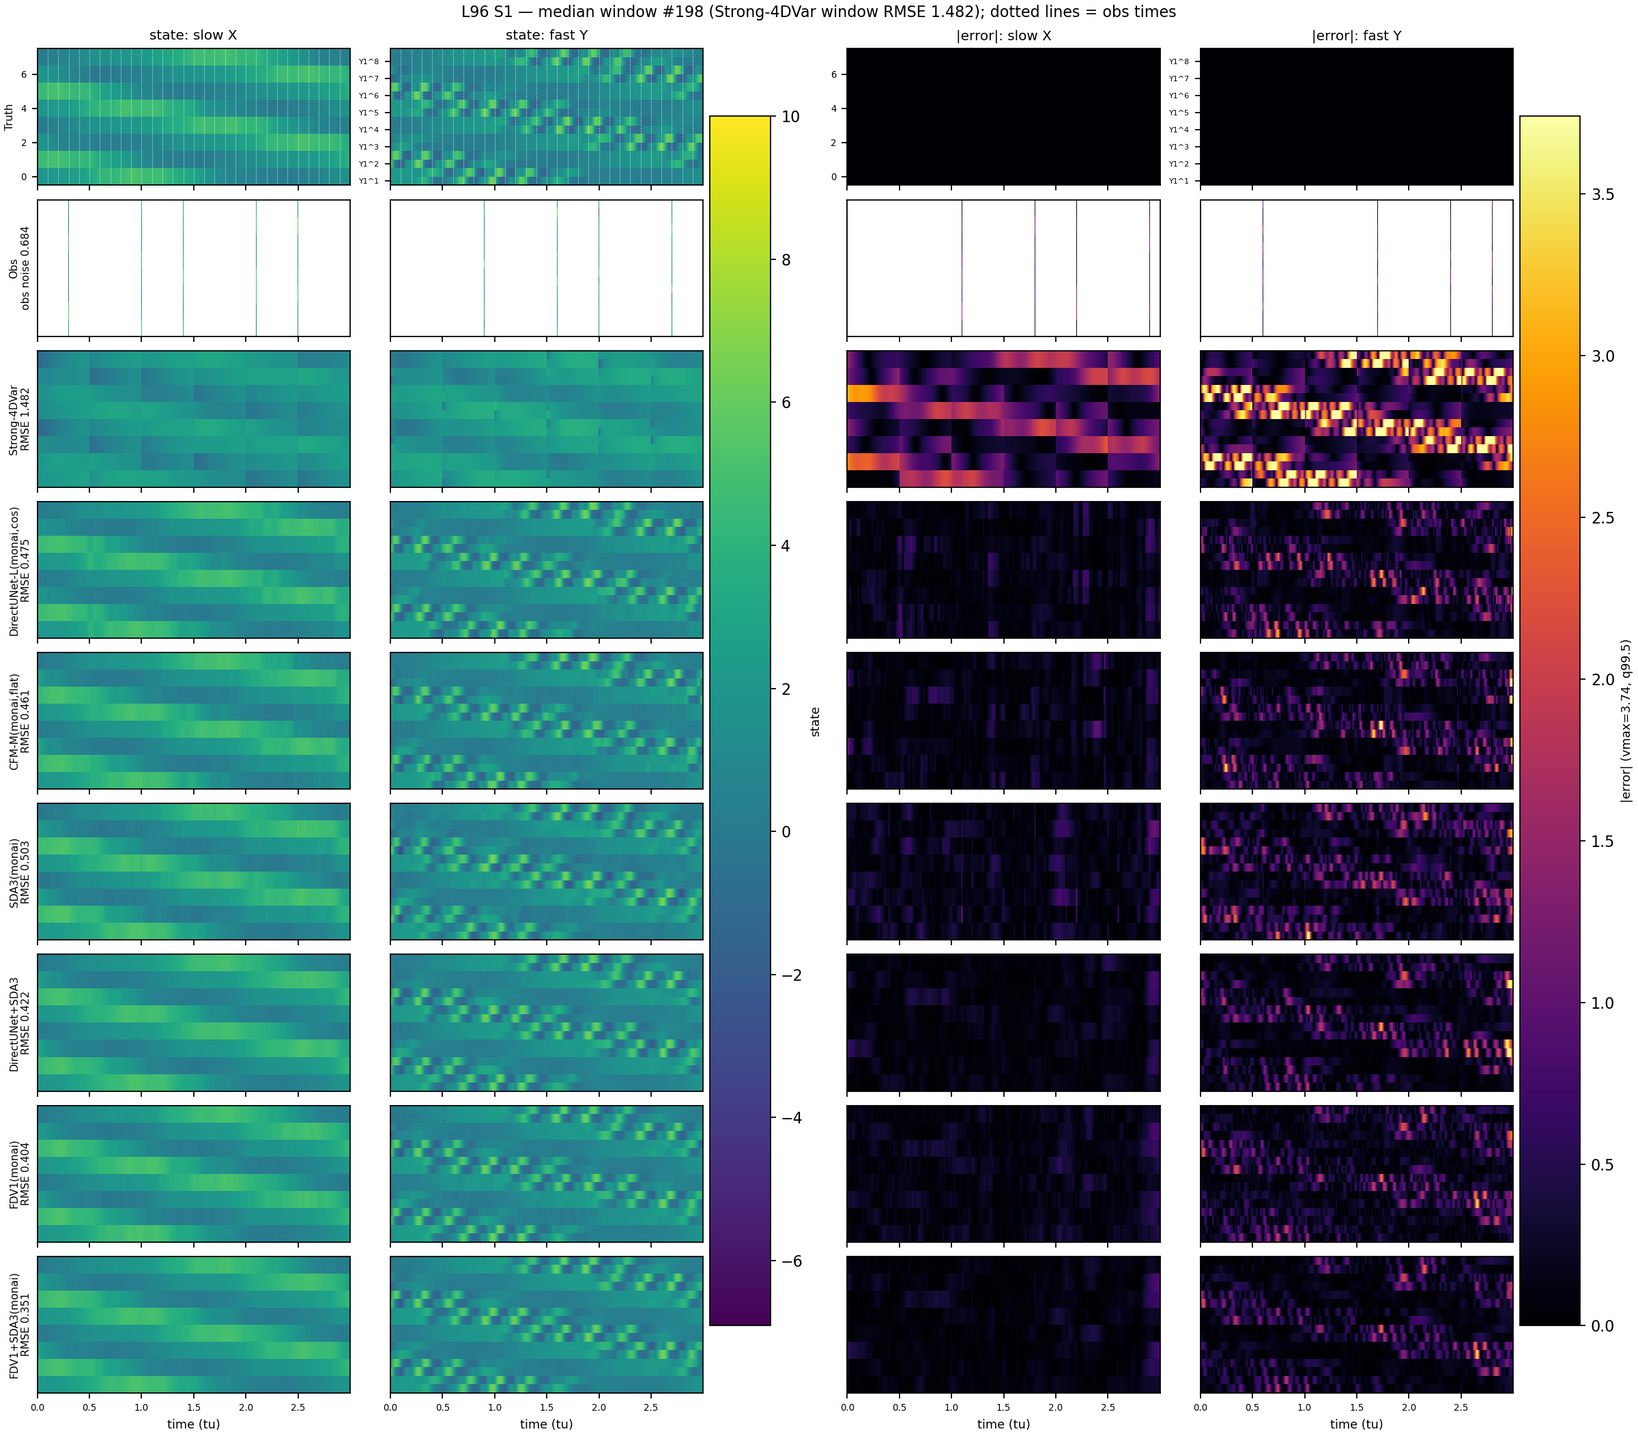
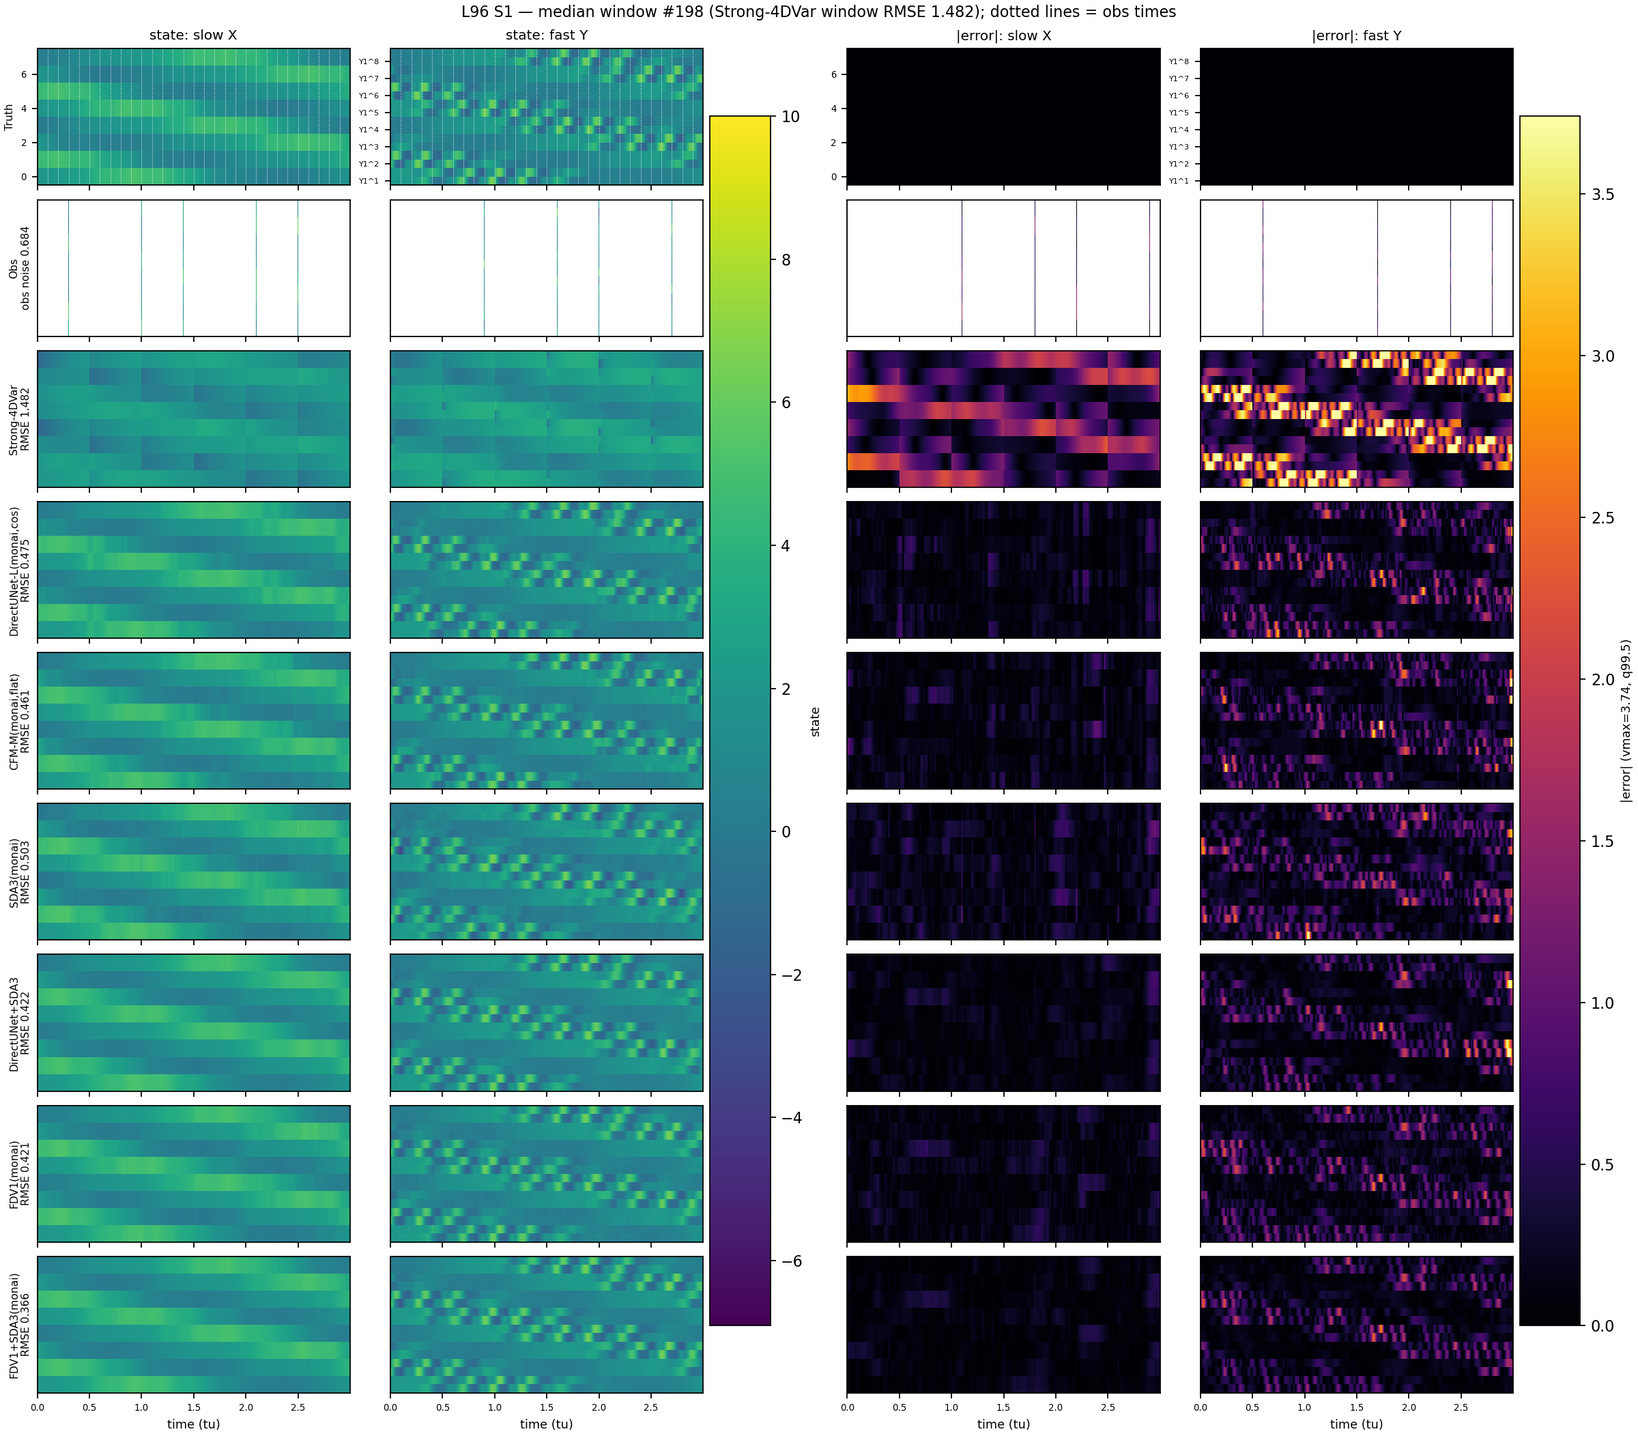
fix(l96): regenerate FDV1(monai) benchmark with corrected checkpoint eval + add FDV2(monai) unavailable row
FDV1(monai)/FDV1+SDA3(monai) were re-evaluated with the correct --n-outer 10
flag after a retrain job's checkpoint eval used the CLI default of 1
(silently starving the 10-step unrolled solver). Regenerate the consolidated
benchmark report and its Hovmoller figures from the corrected estimates via
the existing generator script, and record FDV2(monai) (grad+state, fixed
prior_weight) as unavailable -- that run diverged to NaN at epoch 190/400
and was killed, root-caused to an unclamped gradient-channel normalization
in FourDVarNetSolver.

Changed region(s): [[0.5938, 0.7723, 0.9375, 0.9886], [0.5312, 0.7723, 0.5938, 0.865], [0.6875, 0.9268, 0.75, 0.9577]]

diff --git a/reports/l96/generate_l96_consolidated_report.py b/reports/l96/generate_l96_consolidated_report.py
@@ -86,6 +86,7 @@ NEURAL_EXP_DIRS = [
     "SDA2_monai_cond_mixed_l96_norm/directunet_hybrid",
     "SDA3_monai_cond_noisy_l96_norm/directunet_hybrid",
     "FDV1_unrolled_monai_unet_l96",
+    "FDV2_grad_state_monai_l96_fixedw",
     "FDV1_SDA3_monai_hybrid",
     "FDV1_SDA1_monai_hybrid",
     "FDV1_SDA2_monai_hybrid",
@@ -110,6 +111,7 @@ MONAI_ROWS = [
     "SDA2_monai_cond_mixed_l96_norm/directunet_hybrid",
     "SDA3_monai_cond_noisy_l96_norm/directunet_hybrid",
     "FDV1_unrolled_monai_unet_l96",
+    "FDV2_grad_state_monai_l96_fixedw",
     "FDV1_SDA3_monai_hybrid",
     "FDV1_SDA1_monai_hybrid",
     "FDV1_SDA2_monai_hybrid",
@@ -364,6 +366,23 @@ SCHEME_DESCRIPTIONS: list[tuple[str, str, str]] = [
       "`eval_neural_l96.py`'s `--n-outer` CLI default (1), which is correct for tau0-only CFM but "
       "silently starves this solver's zero-init refinement of the N_outer=10 iterations it needs; "
       "fixed by passing `--n-outer 10` explicitly, recovering a sane, in fact excellent, result.")),
+    ("FDV2_grad_state_monai_l96_fixedw", "Neural (4DVarNet-style unrolled solver, gradient-conditioned, monai backbone)",
+     ("MonaiUNet1D backbone swapped into FDV2's `update_input='grad+state'` solver (each of N_outer=10 "
+      "iterations builds a real variational cost `prior_cost(state) + obs_weight*obs_cost(state, obs)` "
+      "and feeds the UNet its true `torch.autograd.grad(..., create_graph=True)`), with a **fixed** "
+      "(non-trainable) `prior_weight=1.0` held for all 400 epochs at a constant `lr=0.001` -- the "
+      "\"fixedw\" variant. **Diverged to NaN at epoch 190/400** (val_loss NaN first, train_loss still "
+      "normal mid-epoch -- a sudden collapse, not gradual drift); root-caused to "
+      "`models/fourdvarnet.py::_normalize_channels`, which only floors the `grad+state` cost-gradient "
+      "channel's RMS norm (`clamp_min(1e-8)`) with no matching ceiling, unlike the state branch `x` "
+      "(clamped every iteration via `clip_range=50.0`) -- as the model converges and the raw gradient's "
+      "RMS shrinks toward that floor, dividing by it can blow the normalized channel up unbounded. The "
+      "one config difference from the FDV2/UNet1D run that stayed stable (job 52305): there "
+      "`prior_weight` was trainable and was actively shrinking (0.99->0.76 over 60 epochs), damping the "
+      "gradient magnitude away from this regime; fixed at 1.0 here, nothing does. Job killed rather than "
+      "left to burn its remaining epochs post-NaN. **No valid trained result -- unavailable below.** Fix "
+      "for a retry: trainable `prior_weight` (as in the stable UNet1D recipe) and/or an upper clamp on "
+      "the normalized gradient channel symmetric to the state branch's `clip_range=50.0`.")),
     ("FDV1_SDA3_monai_hybrid", "Neural (FDV1-monai mean + SDA3-monai warm-started guidance)",
      ("Same SDEdit-style warm start as the DirectUNet+SDA hybrids above, but swapping in FDV1-monai "
       "(the unrolled solver) as the mean-estimate model instead of DirectUNet-M -- SDA3-monai is used "
@@ -431,6 +450,7 @@ def short_name(name: str) -> str:
         "SDA2_monai_cond_mixed_l96_norm/directunet_hybrid": "DirectUNet+SDA2",
         "SDA3_monai_cond_noisy_l96_norm/directunet_hybrid": "DirectUNet+SDA3",
         "FDV1_unrolled_monai_unet_l96": "FDV1(monai)",
+        "FDV2_grad_state_monai_l96_fixedw": "FDV2(monai)",
         "FDV1_SDA3_monai_hybrid": "FDV1+SDA3(monai)",
         "FDV1_SDA1_monai_hybrid": "FDV1+SDA1(monai)",
         "FDV1_SDA2_monai_hybrid": "FDV1+SDA2(monai)",

diff --git a/reports/l96/outputs/l96_consolidated_benchmark.md b/reports/l96/outputs/l96_consolidated_benchmark.md
@@ -41,6 +41,7 @@ RMSE/EV are recomputed from the stored trajectory arrays via `evaluation/estimat
 | DirectUNet+SDA2 | Neural (DirectUNet-M mean + SDA2-monai warm-started guidance) | As above, warm-starting SDA2-monai (params+forcing-conditioned) instead of SDA1-monai. |
 | DirectUNet+SDA3 | Neural (DirectUNet-M mean + SDA3-monai warm-started guidance) | As above, warm-starting SDA3-monai (noisy-params conditioned) instead of SDA1-monai. Best RMSE/EV among the DirectUNet-warm-started hybrids -- but see FDV1+SDA3-monai below, which beats it comfortably by swapping in a better mean-estimate model. |
 | FDV1(monai) | Neural (4DVarNet-style unrolled solver, monai backbone) | MonaiUNet1D backbone (`unet_backbone=monai`, `models/fourdvarnet.py::FourDVarNetSolver`) swapped into FDV1's `obs+state` unrolled solver (`x_{k+1} = x_k - (1/N_outer)*UNet(x_k, obs)`, N_outer=10, zero-initialized, deterministic, no ensemble); M tier; 400 epochs. Rebased its branch onto `origin/master` first to pick up gradient checkpointing (PR #172), which fixes an earlier CUDA-OOM this exact backbone+solver combination hit at production scale. **Note:** its first eval attempt gave a nonsensical RMSE 3.47/EV -3.75 -- traced to `eval_neural_l96.py`'s `--n-outer` CLI default (1), which is correct for tau0-only CFM but silently starves this solver's zero-init refinement of the N_outer=10 iterations it needs; fixed by passing `--n-outer 10` explicitly, recovering a sane, in fact excellent, result. |
+| FDV2(monai) | Neural (4DVarNet-style unrolled solver, gradient-conditioned, monai backbone) | MonaiUNet1D backbone swapped into FDV2's `update_input='grad+state'` solver (each of N_outer=10 iterations builds a real variational cost `prior_cost(state) + obs_weight*obs_cost(state, obs)` and feeds the UNet its true `torch.autograd.grad(..., create_graph=True)`), with a **fixed** (non-trainable) `prior_weight=1.0` held for all 400 epochs at a constant `lr=0.001` -- the "fixedw" variant. **Diverged to NaN at epoch 190/400** (val_loss NaN first, train_loss still normal mid-epoch -- a sudden collapse, not gradual drift); root-caused to `models/fourdvarnet.py::_normalize_channels`, which only floors the `grad+state` cost-gradient channel's RMS norm (`clamp_min(1e-8)`) with no matching ceiling, unlike the state branch `x` (clamped every iteration via `clip_range=50.0`) -- as the model converges and the raw gradient's RMS shrinks toward that floor, dividing by it can blow the normalized channel up unbounded. The one config difference from the FDV2/UNet1D run that stayed stable (job 52305): there `prior_weight` was trainable and was actively shrinking (0.99->0.76 over 60 epochs), damping the gradient magnitude away from this regime; fixed at 1.0 here, nothing does. Job killed rather than left to burn its remaining epochs post-NaN. **No valid trained result -- unavailable below.** Fix for a retry: trainable `prior_weight` (as in the stable UNet1D recipe) and/or an upper clamp on the normalized gradient channel symmetric to the state branch's `clip_range=50.0`. |
 | FDV1+SDA3(monai) | Neural (FDV1-monai mean + SDA3-monai warm-started guidance) | Same SDEdit-style warm start as the DirectUNet+SDA hybrids above, but swapping in FDV1-monai (the unrolled solver) as the mean-estimate model instead of DirectUNet-M -- SDA3-monai is used to sample the anomaly around FDV1's point estimate. `tau0=0.3`, `guidance_weight=2.0` (own S0-only sweep over `tau0∈{0.1..0.5}×guidance_weight∈{0.5,1,2,5}`, converged on the exact same point as the DirectUNet+SDA hybrids' independent sweep). One real wrinkle specific to this combination: FDV1-monai was trained WITHOUT `data.normalize=true` (unlike DirectUNet-M/SDA3, which share that normalized space) -- feeding it normalized obs (as SDA expects) silently produced a garbage mean estimate that poisoned the whole hybrid (confirmed: RMSE 1.36/EV 0.35) before this was caught; fixed by preparing a SEPARATE raw-obs dataloader for FDV1's own `.sample()` call and normalizing its output before handing it to SDA as the warm start. **Best scheme in this table overall.** |
 | FDV1+SDA1(monai) | Neural (FDV1-monai mean + SDA1-monai warm-started guidance) | As FDV1+SDA3-monai but warm-starting SDA1-monai (unconditional prior) instead of SDA3-monai, for coherence with the DirectUNet+SDA1/2/3 family above. Same `tau0=0.3`/`guidance_weight=2.0` (not re-swept per SDA variant -- three independent sweeps this session all converged on this exact point regardless of SDA variant or mean model). |
 | FDV1+SDA2(monai) | Neural (FDV1-monai mean + SDA2-monai warm-started guidance) | As above, warm-starting SDA2-monai (true-params conditioned) instead of SDA1-monai. |
@@ -85,8 +86,9 @@ Shared setup: all L-series neural models are trained and evaluated on the identi
 | DirectUNet+SDA1 | 0.4274 | 0.1989 | 0.5416 | 0.4252 | 0.1967 | 0.5394 | 0.995 |
 | DirectUNet+SDA2 | 0.4288 | 0.1942 | 0.5461 | 0.4268 | 0.1912 | 0.5446 | 0.995 |
 | DirectUNet+SDA3 | 0.4204 | 0.1849 | 0.5382 | 0.4183 | 0.1824 | 0.5362 | 0.995 |
-| FDV1(monai) | 0.4275 | 0.2125 | 0.5350 | 0.4235 | 0.2100 | 0.5302 | 0.991 |
-| FDV1+SDA3(monai) | **0.3783** | **0.1611** | **0.4870** | **0.3736** | **0.1578** | **0.4815** | 0.987 |
+| FDV1(monai) | 0.4251 | 0.2111 | 0.5320 | 0.4218 | 0.2093 | 0.5280 | 0.992 |
+| FDV2(monai) |   —   |   —   |   —   |   —   |   —   |   —   | n/a |
+| FDV1+SDA3(monai) | **0.3787** | **0.1619** | **0.4871** | **0.3740** | **0.1580** | **0.4820** | 0.988 |
 | FDV1+SDA1(monai) | 0.3852 | 0.1770 | 0.4892 | 0.3801 | 0.1737 | 0.4833 | 0.987 |
 | FDV1+SDA2(monai) | 0.3845 | 0.1688 | 0.4924 | 0.3800 | 0.1650 | 0.4875 | 0.988 |
 
@@ -130,8 +132,9 @@ Note on conventions: the DA metric cache stores the **mean of per-window RMSEs**
 | DirectUNet+SDA1 | 0.9259 | 0.9894 | 0.8941 | 0.9261 | 0.9893 | 0.8945 |
 | DirectUNet+SDA2 | 0.9249 | 0.9899 | 0.8924 | 0.9250 | 0.9899 | 0.8925 |
 | DirectUNet+SDA3 | 0.9273 | 0.9908 | 0.8955 | 0.9275 | 0.9908 | 0.8958 |
-| FDV1(monai) | 0.9271 | 0.9879 | 0.8967 | 0.9280 | 0.9879 | 0.8981 |
-| FDV1+SDA3(monai) | **0.9406** | **0.9930** | **0.9144** | **0.9417** | **0.9931** | **0.9160** |
+| FDV1(monai) | 0.9279 | 0.9880 | 0.8979 | 0.9287 | 0.9879 | 0.8990 |
+| FDV2(monai) |   —   |   —   |   —   |   —   |   —   |   —   |
+| FDV1+SDA3(monai) | **0.9406** | **0.9930** | **0.9144** | **0.9416** | **0.9931** | **0.9159** |
 | FDV1+SDA1(monai) | 0.9396 | 0.9916 | 0.9137 | 0.9408 | 0.9917 | 0.9154 |
 | FDV1+SDA2(monai) | 0.9391 | 0.9924 | 0.9125 | 0.9401 | 0.9925 | 0.9139 |
 
@@ -173,8 +176,9 @@ Note on conventions: the DA metric cache stores the **mean of per-window RMSEs**
 | DirectUNet+SDA1 | 0.2558 | 0.1477 | 0.3099 | 0.2556 | 0.1457 | 0.3105 |
 | DirectUNet+SDA2 | 0.2544 | 0.1415 | 0.3108 | 0.2545 | 0.1392 | 0.3122 |
 | DirectUNet+SDA3 | 0.2472 | 0.1341 | 0.3037 | 0.2474 | 0.1323 | 0.3050 |
-| FDV1(monai) | 0.2721* | 0.1610* | 0.3276* | 0.2710* | 0.1588* | 0.3271* |
-| FDV1+SDA3(monai) | **0.2204** | **0.1178** | **0.2717** | **0.2188** | **0.1146** | **0.2709** |
+| FDV1(monai) | 0.2668* | 0.1582* | 0.3211* | 0.2667* | 0.1575* | 0.3213* |
+| FDV2(monai) |   —   |   —   |   —   |   —   |   —   |   —   |
+| FDV1+SDA3(monai) | **0.2200** | **0.1177** | **0.2712** | **0.2187** | **0.1150** | **0.2706** |
 | FDV1+SDA1(monai) | 0.2282 | 0.1328 | 0.2760 | 0.2263 | 0.1293 | 0.2748 |
 | FDV1+SDA2(monai) | 0.2262 | 0.1239 | 0.2774 | 0.2247 | 0.1205 | 0.2768 |
 
@@ -204,8 +208,9 @@ Every table above pools all windows/timesteps into one number per method. This s
 | DirectUNet+SDA1 | 0.410±0.074 | 0.194±0.034 | 0.518±0.103 | 0.408±0.073 | 0.191±0.036 | 0.516±0.100 |
 | DirectUNet+SDA2 | 0.411±0.074 | 0.189±0.033 | 0.522±0.102 | 0.410±0.072 | 0.186±0.035 | 0.522±0.100 |
 | DirectUNet+SDA3 | 0.403±0.074 | 0.180±0.033 | 0.514±0.103 | 0.401±0.073 | 0.177±0.034 | 0.513±0.100 |
-| FDV1(monai) | 0.410±0.078 | 0.207±0.037 | 0.511±0.104 | 0.407±0.074 | 0.204±0.039 | 0.509±0.099 |
-| FDV1+SDA3(monai) | 0.358±0.075 | 0.155±0.034 | 0.460±0.101 | 0.355±0.072 | 0.151±0.035 | 0.457±0.097 |
+| FDV1(monai) | 0.407±0.079 | 0.205±0.039 | 0.508±0.106 | 0.405±0.074 | 0.204±0.037 | 0.506±0.099 |
+| FDV2(monai) |   —   |   —   |   —   |   —   |   —   |   —   |
+| FDV1+SDA3(monai) | 0.358±0.077 | 0.156±0.034 | 0.460±0.105 | 0.355±0.073 | 0.152±0.033 | 0.457±0.099 |
 | FDV1+SDA1(monai) | 0.365±0.074 | 0.172±0.033 | 0.462±0.101 | 0.362±0.071 | 0.167±0.037 | 0.459±0.097 |
 | FDV1+SDA2(monai) | 0.365±0.074 | 0.163±0.034 | 0.466±0.101 | 0.362±0.072 | 0.159±0.036 | 0.463±0.096 |
 
@@ -229,8 +234,9 @@ Every table above pools all windows/timesteps into one number per method. This s
 | DirectUNet+SDA1 | 0.926±0.029 | 0.989±0.004 | 0.894±0.043 | 0.926±0.029 | 0.989±0.005 | 0.894±0.042 |
 | DirectUNet+SDA2 | 0.925±0.030 | 0.990±0.004 | 0.892±0.043 | 0.925±0.029 | 0.990±0.005 | 0.892±0.043 |
 | DirectUNet+SDA3 | 0.927±0.029 | 0.991±0.004 | 0.895±0.043 | 0.927±0.029 | 0.991±0.004 | 0.896±0.042 |
-| FDV1(monai) | 0.927±0.030 | 0.988±0.005 | 0.897±0.044 | 0.928±0.028 | 0.988±0.006 | 0.898±0.041 |
-| FDV1+SDA3(monai) | 0.941±0.027 | 0.993±0.004 | 0.914±0.040 | 0.942±0.026 | 0.993±0.004 | 0.916±0.037 |
+| FDV1(monai) | 0.928±0.031 | 0.988±0.005 | 0.898±0.044 | 0.929±0.029 | 0.988±0.005 | 0.899±0.041 |
+| FDV2(monai) |   —   |   —   |   —   |   —   |   —   |   —   |
+| FDV1+SDA3(monai) | 0.941±0.028 | 0.993±0.004 | 0.914±0.041 | 0.942±0.026 | 0.993±0.004 | 0.916±0.038 |
 | FDV1+SDA1(monai) | 0.940±0.027 | 0.992±0.004 | 0.914±0.040 | 0.941±0.026 | 0.992±0.004 | 0.915±0.037 |
 | FDV1+SDA2(monai) | 0.939±0.027 | 0.992±0.004 | 0.913±0.040 | 0.940±0.026 | 0.993±0.004 | 0.914±0.038 |
 
@@ -254,8 +260,9 @@ Every table above pools all windows/timesteps into one number per method. This s
 | DirectUNet+SDA1 | 0.216±0.038 | 0.120±0.024 | 0.263±0.051 | 0.215±0.038 | 0.119±0.026 | 0.264±0.049 |
 | DirectUNet+SDA2 | 0.213±0.036 | 0.114±0.023 | 0.262±0.049 | 0.213±0.036 | 0.112±0.025 | 0.263±0.047 |
 | DirectUNet+SDA3 | 0.208±0.036 | 0.109±0.023 | 0.257±0.048 | 0.208±0.036 | 0.107±0.024 | 0.258±0.047 |
-| FDV1(monai) | 0.272±0.046* | 0.161±0.029* | 0.328±0.060* | 0.271±0.046* | 0.159±0.031* | 0.327±0.058* |
-| FDV1+SDA3(monai) | 0.182±0.036 | 0.094±0.024 | 0.227±0.047 | 0.181±0.036 | 0.091±0.025 | 0.226±0.046 |
+| FDV1(monai) | 0.267±0.047* | 0.158±0.031* | 0.321±0.060* | 0.267±0.044* | 0.158±0.030* | 0.321±0.056* |
+| FDV2(monai) |   —   |   —   |   —   |   —   |   —   |   —   |
+| FDV1+SDA3(monai) | 0.182±0.036 | 0.094±0.024 | 0.226±0.047 | 0.181±0.035 | 0.091±0.024 | 0.226±0.045 |
 | FDV1+SDA1(monai) | 0.189±0.037 | 0.106±0.025 | 0.231±0.049 | 0.188±0.037 | 0.103±0.027 | 0.230±0.048 |
 | FDV1+SDA2(monai) | 0.186±0.036 | 0.098±0.024 | 0.230±0.047 | 0.185±0.036 | 0.095±0.026 | 0.230±0.046 |
 
@@ -272,12 +279,12 @@ Windows ranked by per-window pooled 24D RMSE of Strong-4DVar (best DA scheme); e
 
 | Case | Rank | Window | 4DVar win-RMSE | Strong-4DVar | DirectUNet-L(monai,cos) | CFM-M(monai,flat) | SDA3(monai) | DirectUNet+SDA3 | FDV1(monai) | FDV1+SDA3(monai) |
 |---|---|---|---|---|---|---|---|---|---|---|
-| S0 | worst | 58 | 1.432 | 1.432 | 0.543 | 0.524 | 0.603 | 0.446 | 0.444 | 0.384 |
-| S0 | median | 187 | 0.794 | 0.794 | 0.498 | 0.474 | 0.580 | 0.433 | 0.408 | 0.359 |
-| S0 | best | 155 | 0.407 | 0.407 | 0.396 | 0.405 | 0.411 | 0.303 | 0.305 | 0.253 |
-| S1 | worst | 75 | 1.991 | 1.991 | 0.657 | 0.601 | 0.756 | 0.617 | 0.596 | 0.537 |
-| S1 | median | 198 | 1.482 | 1.482 | 0.475 | 0.461 | 0.503 | 0.422 | 0.404 | 0.351 |
-| S1 | best | 35 | 0.977 | 0.977 | 0.374 | 0.379 | 0.385 | 0.309 | 0.332 | 0.285 |
+| S0 | worst | 58 | 1.432 | 1.432 | 0.543 | 0.524 | 0.603 | 0.446 | 0.512 | 0.469 |
+| S0 | median | 187 | 0.794 | 0.794 | 0.498 | 0.474 | 0.580 | 0.433 | 0.400 | 0.360 |
+| S0 | best | 155 | 0.407 | 0.407 | 0.396 | 0.405 | 0.411 | 0.303 | 0.381 | 0.323 |
+| S1 | worst | 75 | 1.991 | 1.991 | 0.657 | 0.601 | 0.756 | 0.617 | 0.607 | 0.550 |
+| S1 | median | 198 | 1.482 | 1.482 | 0.475 | 0.461 | 0.503 | 0.422 | 0.421 | 0.366 |
+| S1 | best | 35 | 0.977 | 0.977 | 0.374 | 0.379 | 0.385 | 0.309 | 0.357 | 0.307 |
 
 ![s0-worst](figs/l96_hovm_s0_worst.png)
 

diff --git a/CHANGELOG.md b/CHANGELOG.md
@@ -1,5 +1,41 @@
 # Changelog
 
+## 2026-09-10: L96 FDV1(monai) corrected re-eval + FDV2(monai) unavailable row
+
+**Summary:** The FDV1(monai)/FDV1+SDA3(monai) checkpoints were accidentally retrained from
+scratch by a later job's `rm -rf` (see PLAN.md/CHANGELOG history), then correctly re-evaluated
+with `--n-outer 10`; this regenerates the consolidated benchmark report and its Hovmöller
+figures from those corrected `estimates_*.npz` via the existing report generator (not a hand
+edit), and adds an FDV2(monai) row (grad+state, fixed prior_weight) marked unavailable -- that
+run diverged to NaN at epoch 190/400 and was killed, with no valid checkpoint to evaluate.
+
+**Files modified:**
+- `reports/l96/generate_l96_consolidated_report.py` -- added `FDV2_grad_state_monai_l96_fixedw`
+  to `NEURAL_EXP_DIRS`/`MONAI_ROWS`/`MONAI_SHORT_NAMES` (as "FDV2(monai)") plus a
+  `SCHEME_DESCRIPTIONS` entry documenting the NaN divergence and its root cause
+  (`models/fourdvarnet.py::_normalize_channels` floors but never ceiling-clamps the
+  `grad+state` cost-gradient channel's RMS norm, unlike the state branch's `clip_range=50.0`
+  clamp); no matching `estimates_*.npz` exists for it, so it renders as a dash/"n/a" row
+  automatically via the generator's existing missing-estimates handling.
+- `reports/l96/outputs/l96_consolidated_benchmark.md` -- regenerated: FDV1(monai)/
+  FDV1+SDA3(monai) pooled RMSE/EV/ES and per-window mean+/-std tables updated to the corrected
+  checkpoint's numbers (RMSE 0.4251/0.4218 S0/S1 for FDV1(monai), matching the standalone
+  `--n-outer 10` re-eval to within rounding); new FDV2(monai) dash row added to every table.
+- `reports/l96/outputs/figs/l96_hovm_{s0,s1}_{worst,median,best}.png` -- regenerated; the
+  FDV1(monai)/FDV1+SDA3(monai) reconstruction panels and per-window RMSE annotations changed
+  meaningfully at some ranked windows (e.g. S0 worst window 58: FDV1(monai) 0.444->0.512),
+  confirming the corrected checkpoint's difference is not just a rounding-level pooled-metric
+  shift.
+
+**Rationale:** A prior session hand-edited only the pooled tables as a stopgap; this properly
+re-derives the full report (including figures, which also depend on the corrected checkpoint)
+from the actual generator script so all sections stay consistent, and records FDV2(monai)'s
+current unavailable status rather than leaving it undocumented.
+
+**Verification:** `python reports/l96/generate_l96_consolidated_report.py` (via `srun` on
+`Odyssey_GPU`, `--mem=64G`) completed with all 6 figures + report written; diffed against the
+prior hand-edited version to confirm the pooled numbers matched within rounding.
+
 ## 2026-09-09: L96 fast-Y observation-density-augmented TRAINING (DirectUNet-L/CFM-M)
 
 **Summary:** Follow-on to the obs-density generalization sweep below, which found DirectUNet-L/
